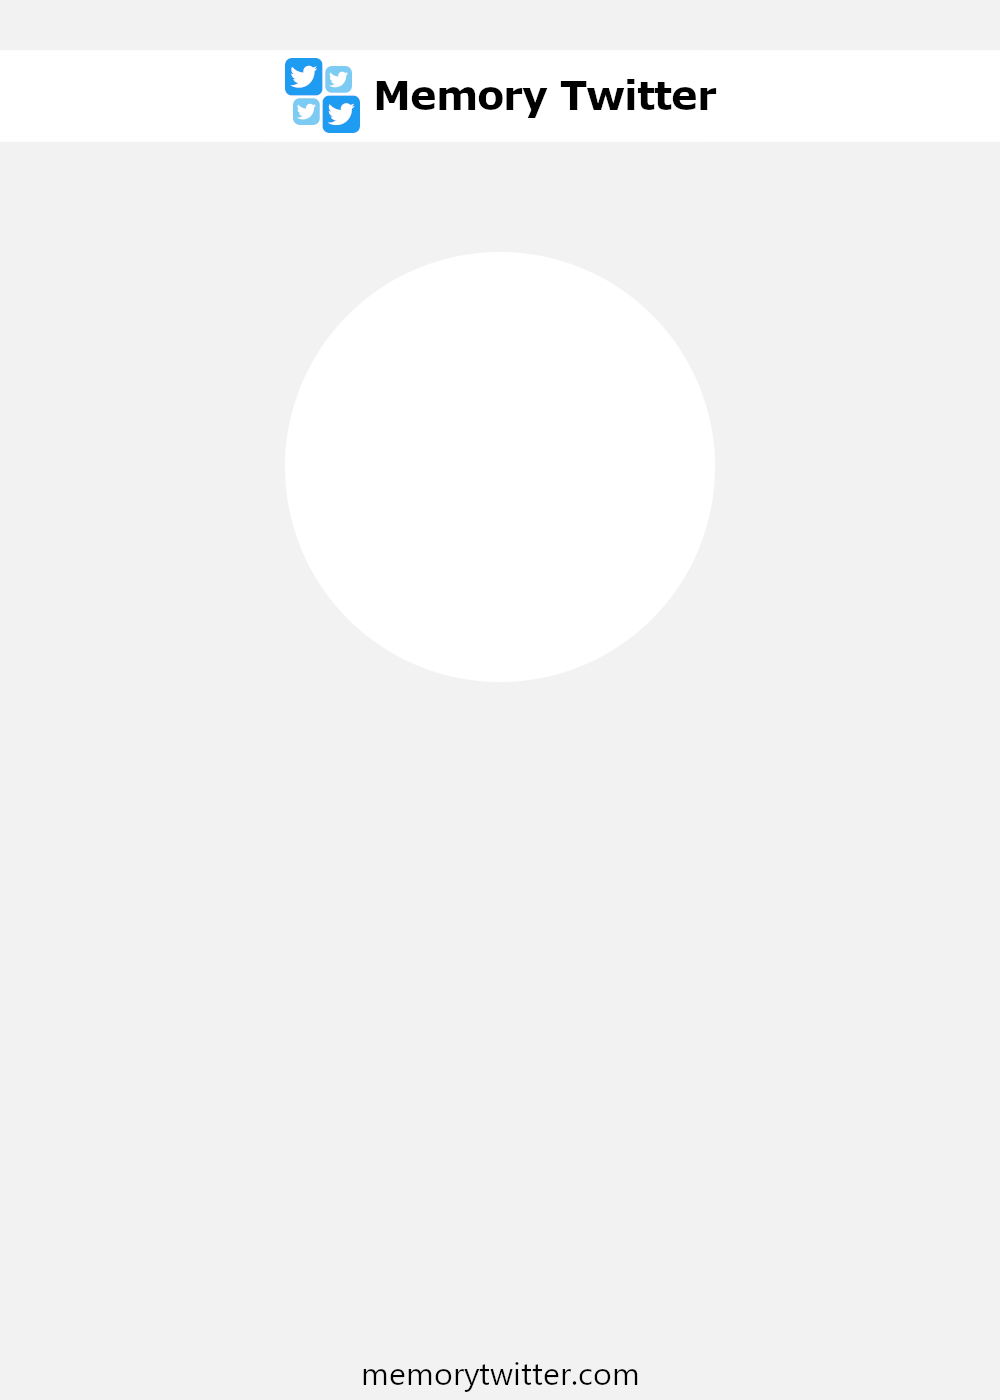
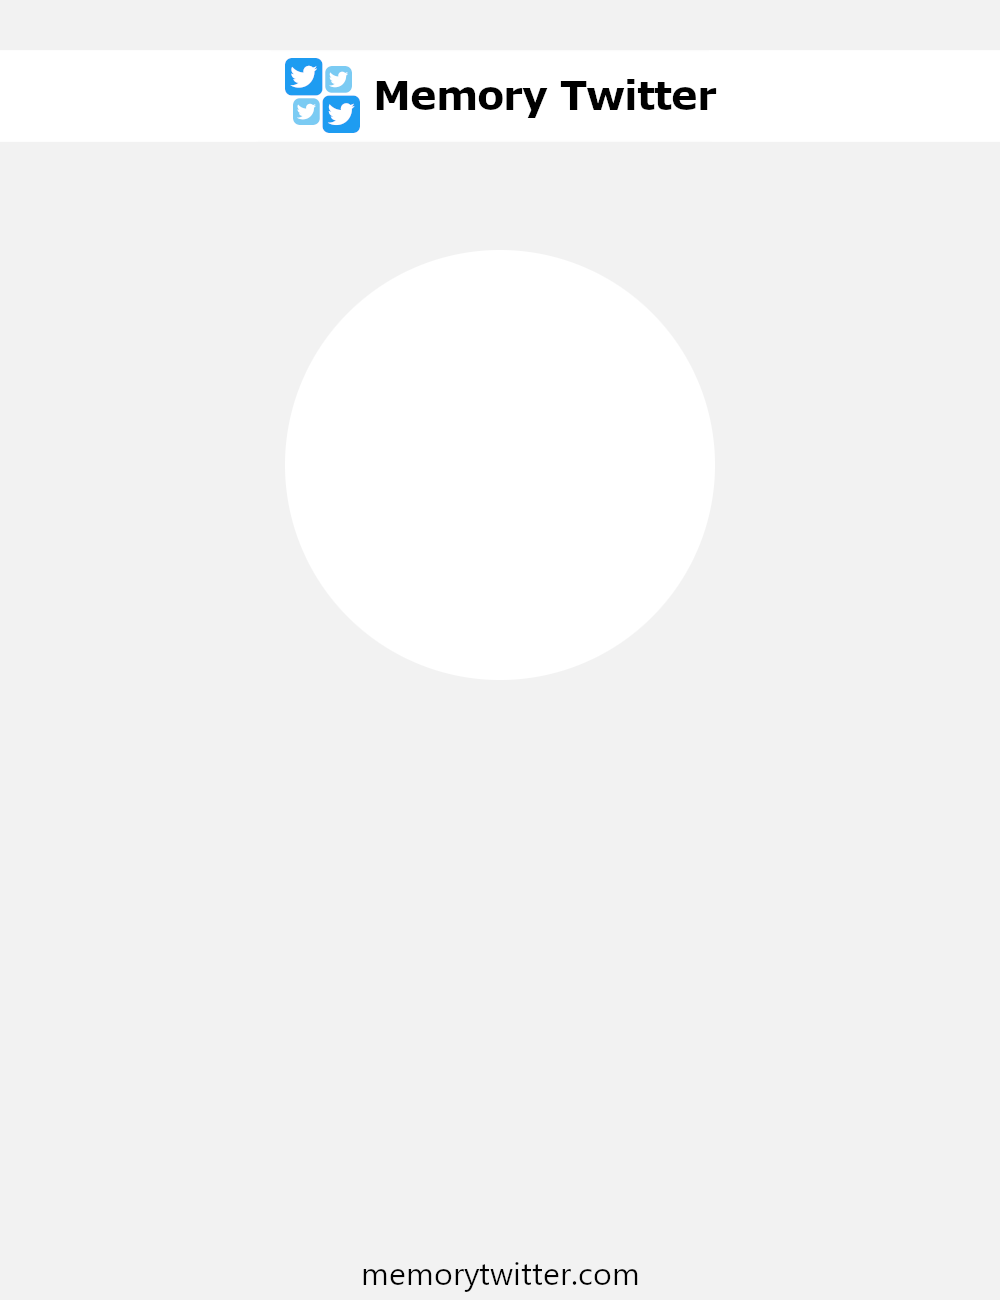
Tweet: Update image dimensions

diff --git a/src/api/tweet/tweet.service.ts b/src/api/tweet/tweet.service.ts
@@ -42,23 +42,23 @@ export const createImage = async (req: Request, result: ResultDB): Promise<Bitma
     }
   }
 
-  writeText(t('tweet:game-finished', { returnObjects: true }), 75, 730, context);
+  writeText(t('tweet:game-finished', { returnObjects: true }), 75, 720, context);
   writeText(
     t('tweet:level', { context: result.level, level: result.level, returnObjects: true }),
     50,
-    860,
+    825,
     context
   );
   writeText(
     t('tweet:clicks', { count: result.clicks, clicks: result.clicks, returnObjects: true }),
     50,
-    960,
+    910,
     context
   );
   writeText(
     t('tweet:time', { time: formatTime(result.time), returnObjects: true }),
     50,
-    1040,
+    995,
     context
   );
 

diff --git a/src/middleware/canvas.ts b/src/middleware/canvas.ts
@@ -13,7 +13,7 @@ const canvas = async (req: Request, res: Response, next: NextFunction) => {
   PImage.registerFont(fontBold, 'ChirpBold', 700, 'normal', 'normal').loadSync();
   PImage.registerFont(fontRegular, 'Chirp', 500, 'normal', 'normal').loadSync();
 
-  const image = PImage.make(1000, 1400, {});
+  const image = PImage.make(1000, 1300, {});
   const context = image.getContext('2d');
 
   context.fillStyle = '#000';
